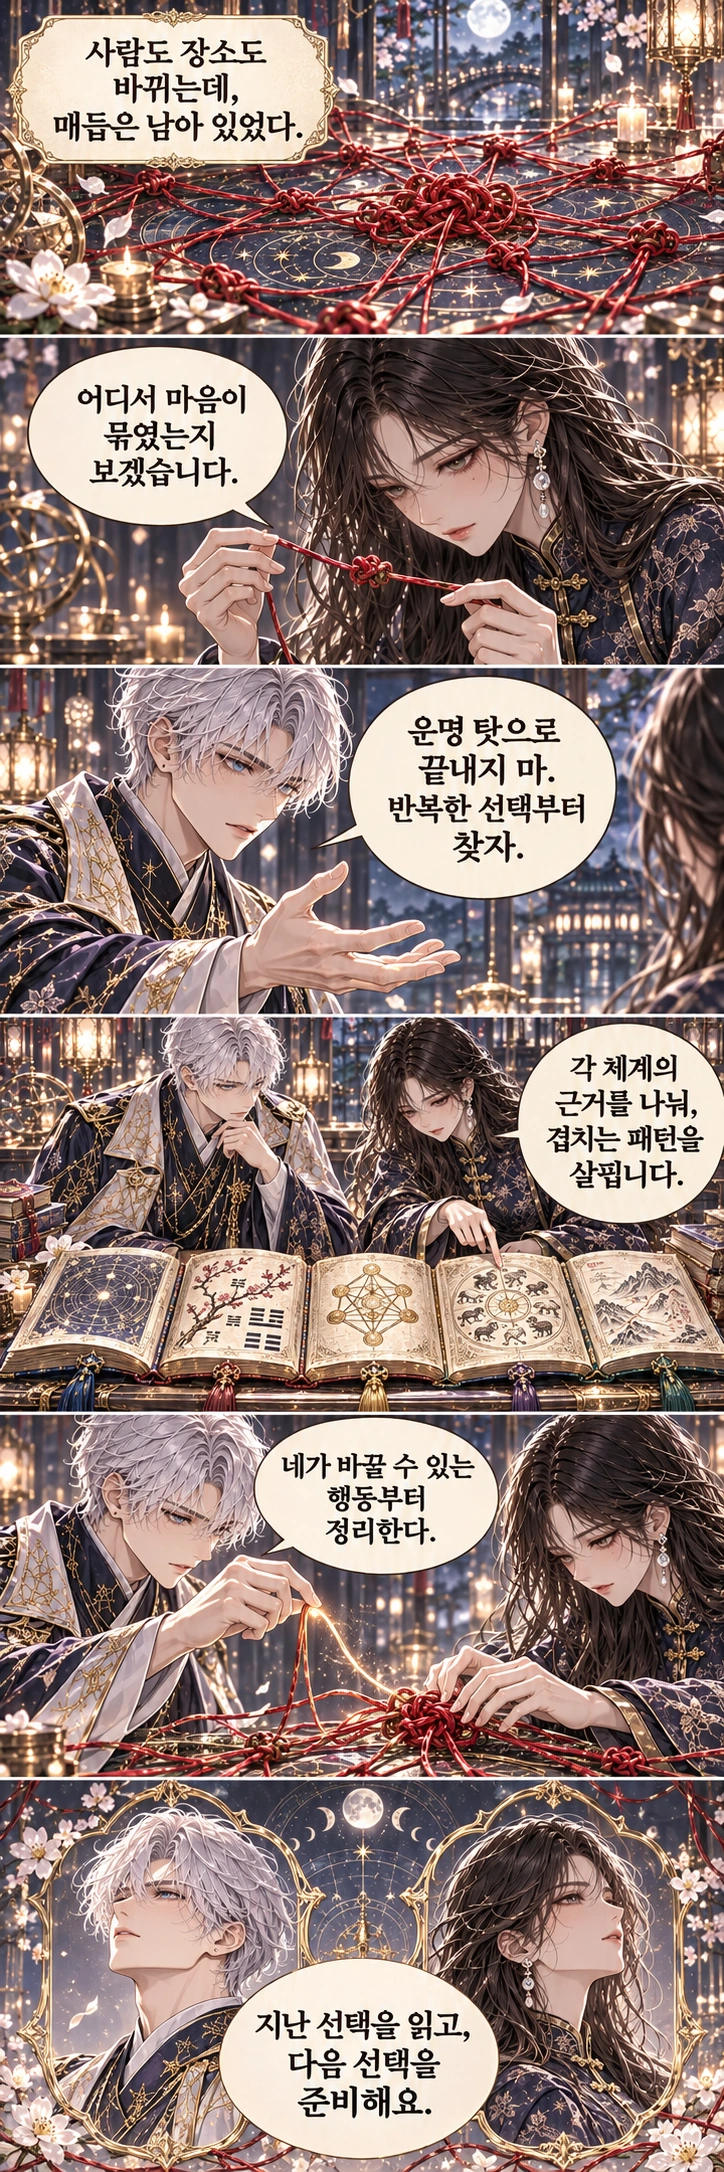
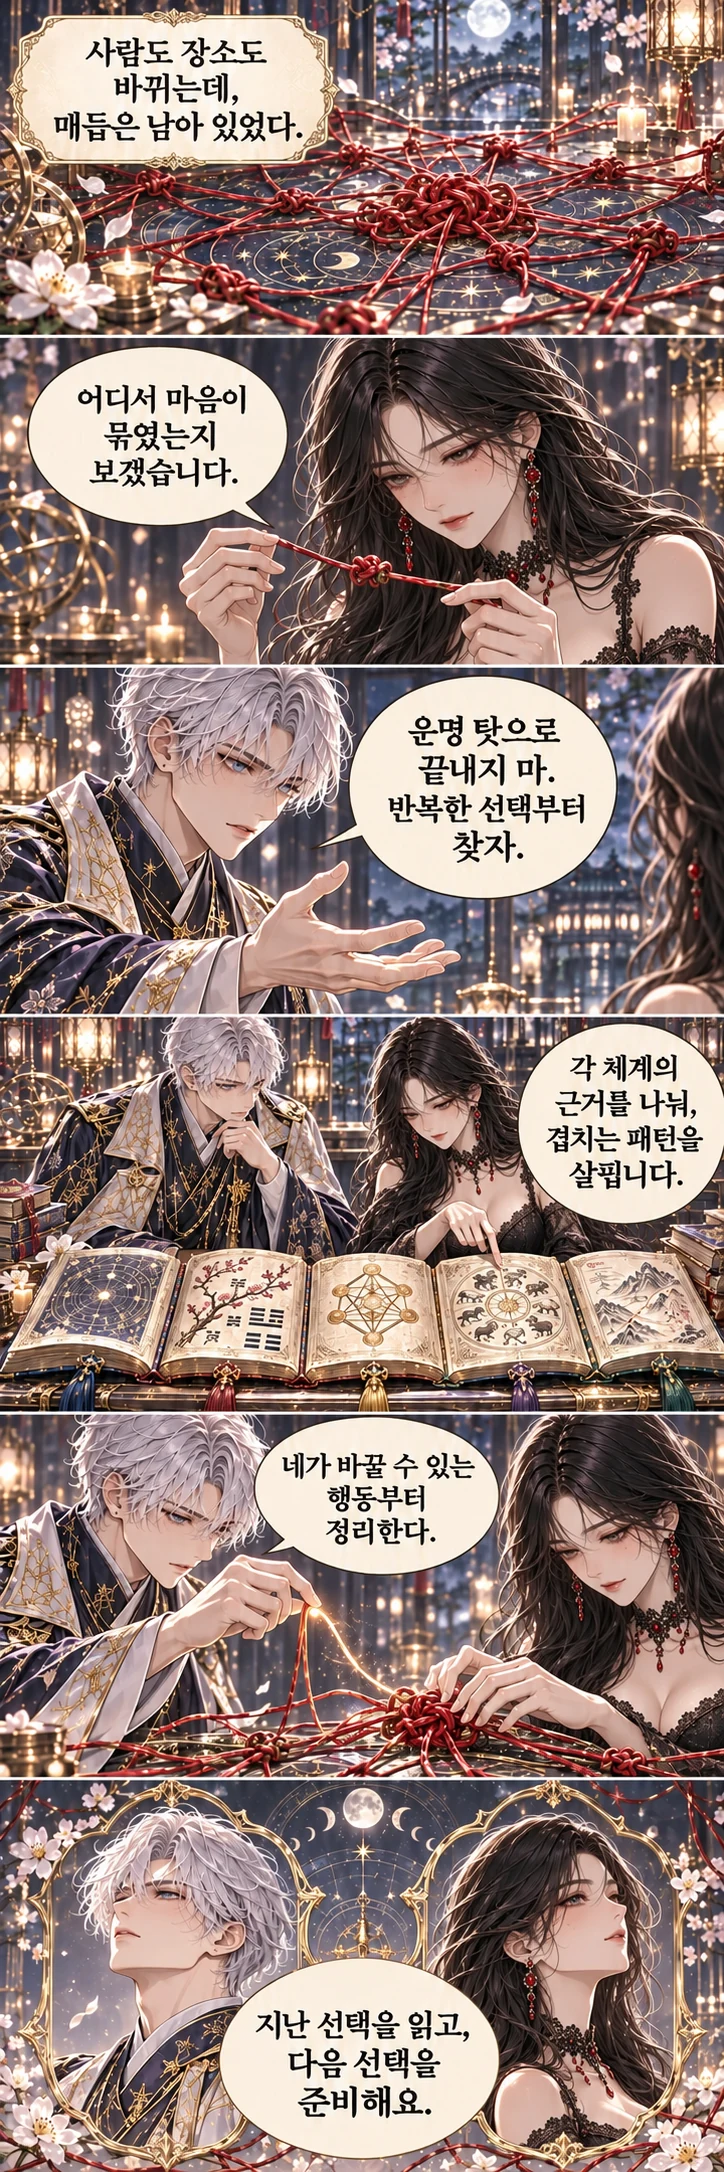
상담 웹툰 외형을 캐릭터 원화에 맞추고 마스코트 안내 삽화를 추가

diff --git a/docs/context/content-assets.md b/docs/context/content-assets.md
@@ -2,6 +2,24 @@
 
 > 이 파일은 필요할 때만 읽는 참조 문서입니다. 항상 로드되는 규약 요약은 루트 [CLAUDE.md](../../CLAUDE.md)에 있습니다.
 
+## 캐릭터 삽화 제작 원본
+
+표지·웹툰·홈 삽화를 제작할 때 아래에서 등장인물 전원의 시트를 골라 이미지 입력으로 첨부한다. 원본 폴더는 `D:\CodeDestiny-Build`다.
+
+| 인물과 형태 | 참조 파일 | 확인할 특징 |
+|---|---|---|
+| 연이 · 인간형 | 여_연이 프로필 사복버전.webp | 장밋빛 긴 머리와 꽃장식 |
+| 연이 · 꽃돼지 | 연이 프로필1.png, 연이 프로필2.png | 분홍 연꽃, 보라색 스카프, 둥근 주둥이 |
+| 네오 · 인간형 | 네오 인간 프로필1.png | 은발과 푸른 눈 |
+| 네오 · 사자 | 네오프로필1.png, 네오프로필2.png | 주황 갈기와 붉은 스카프 |
+| 영냥이 | 양냥이 프로필 시트.webp | 흰 장모, 초승달 모자와 남색 망토 |
+| 무성 | 무성 프로필 시트.png | 까마귀 부리 후드와 보라색 술 |
+| 서한비 | 서한비 프로필 시트.png | 긴 흑발, 검은 레이스와 붉은 보석 |
+| 윤달 | 윤달 프로필 시트.png | 낮게 묶은 머리와 원형 펜던트 |
+| 흑월 | 흑월 프로필 시트.png | 인간형의 붉은 꽃과 검은 일식 형상을 장면에 맞춰 구분 |
+
+인간형 상담 본편과 마스코트 이용 안내의 형태를 구분한다. 원고 대사·도표, 컷마다 등장하는 인물 수와 장신구를 시트와 대조하고, 홈 표지·목록 미리보기·본편에서 각각 확인한다.
+
 ## Content Assets
 
 - **캐릭터**: 상담가 셋 — 영냥이(주인공, `app/yeongnyangi/`, 마스터 이미지 `public/assets/yeongnyangi/original/hero-800.webp`)·연이(꽃돼지, `components/yeon/` YeonSpriteFrame 등)·네오. 정체성·목소리 정본은 [design-canon](design-canon.md)
